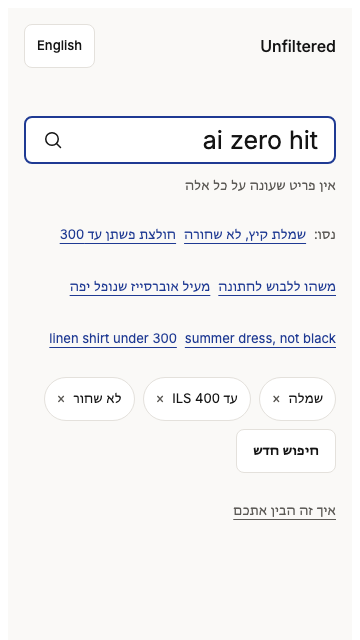
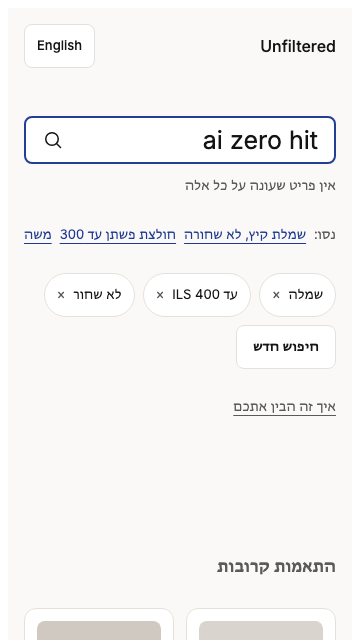
YOY-96 (AC-15): the collapsed Try: row stays one scrollable row on narrow viewports
On viewports ≤640px the collapsed example row no longer wraps six 44px
controls into a ~260px stack: flex-wrap nowrap, inline overflow scroll with
proximity snap, every control keeps its 44px hit target; the initial
(non-collapsed) list is unchanged. New ai-states spec at 360×640 asserts the
row is ≤56px tall and the chip row sits above the fold; YOY-93 mobile EN/HE
evidence re-captured.

Claude-Session: https://claude.ai/code/session_016Xg312Mzx2pHctPGTWBSAD

diff --git a/apps/shopify-app/app/playground/test-ui/ai-states.spec.ts b/apps/shopify-app/app/playground/test-ui/ai-states.spec.ts
@@ -11,6 +11,7 @@ import { PLAYGROUND_STRING_CATALOG, type PlaygroundLocale } from "../strings";
  */
 
 const DESKTOP = { width: 1280, height: 800 };
+const MOBILE = { width: 360, height: 640 };
 
 const input = (page: Page) => page.getByTestId("playground-input");
 const chips = (page: Page) => page.getByTestId("playground-chip");
@@ -465,6 +466,31 @@ test.describe("example queries (AC-6, verify 6)", () => {
     await expect(chips(page)).toHaveCount(3);
     await expect(examples).toHaveAttribute("data-collapsed", "true");
     await expect(examples).toContainText(strings("en").examplesLead);
+  });
+
+  test("the collapsed Try: row stays one row on a narrow viewport and the chips stay above the fold (YOY-96 AC-15)", async ({
+    page,
+  }) => {
+    await page.setViewportSize(MOBILE);
+    await page.goto("/");
+    const examples = page.getByTestId("playground-examples");
+    await submit(page, "ai elegant dress");
+    await expect(chips(page)).toHaveCount(3);
+    await expect(examples).toHaveAttribute("data-collapsed", "true");
+
+    // One row: the six 44px controls no longer wrap into a ~260px stack.
+    const box = await examples.boundingBox();
+    expect(box).not.toBeNull();
+    expect(box!.height).toBeLessThanOrEqual(56);
+    // Every example keeps its hit target (F-3) inside the scrolling row.
+    for (const example of await page.getByTestId("playground-example").all()) {
+      const target = await example.boundingBox();
+      expect(target!.height).toBeGreaterThanOrEqual(44);
+    }
+    // The answer is above the fold: the chip row starts inside the viewport.
+    const chipRow = await page.getByTestId("playground-chips").boundingBox();
+    expect(chipRow).not.toBeNull();
+    expect(chipRow!.y).toBeLessThan(640);
   });
 
   test("they are links, never pills (P-2)", async ({ page }) => {

diff --git a/apps/shopify-app/app/playground/playground.css b/apps/shopify-app/app/playground/playground.css
@@ -535,6 +535,35 @@ html:has(.playground) {
     grid-template-columns: repeat(2, minmax(0, 1fr));
     gap: var(--space-12);
   }
+
+  /* The collapsed "Try:" row stays ONE quiet row on a narrow viewport
+     (YOY-96 AC-15): six 44px controls wrapping onto their own lines made a
+     ~260px block that pushed the answer below the fold. It scrolls inline
+     instead, snapping near each example; every control keeps its 44px hit
+     target (F-3) and the initial (non-collapsed) list is untouched. The
+     row is thumbed or trackpad-scrolled — an always-on scrollbar under a
+     single line of text links is the very weight the collapse removes, so
+     the track is not drawn (no custom scrollbar styling, just none). */
+  .examplesCollapsed {
+    flex-wrap: nowrap;
+    overflow-x: auto;
+    overflow-y: hidden;
+    scroll-snap-type: x proximity;
+    scroll-padding-inline: var(--space-8);
+    overscroll-behavior-inline: contain;
+    scrollbar-width: none;
+  }
+
+  .examplesCollapsed::-webkit-scrollbar {
+    display: none;
+  }
+
+  .examplesCollapsed .examplesLead,
+  .examplesCollapsed .exampleQuery {
+    flex-shrink: 0;
+    white-space: nowrap;
+    scroll-snap-align: start;
+  }
 }
 
 @media (prefers-reduced-motion: reduce) {
